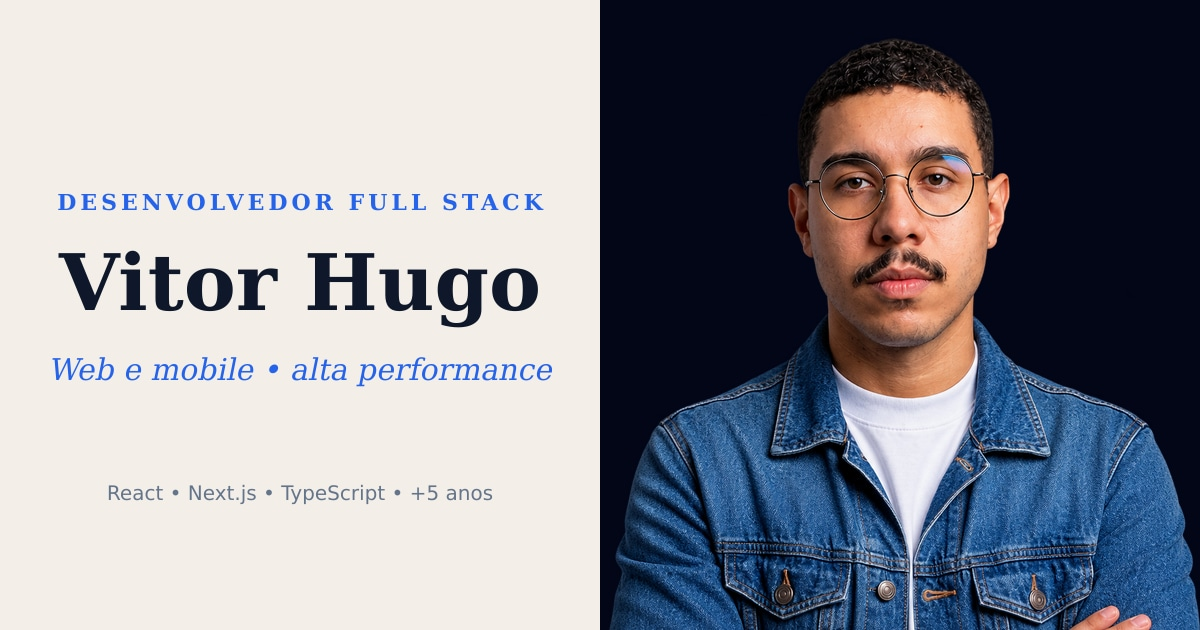
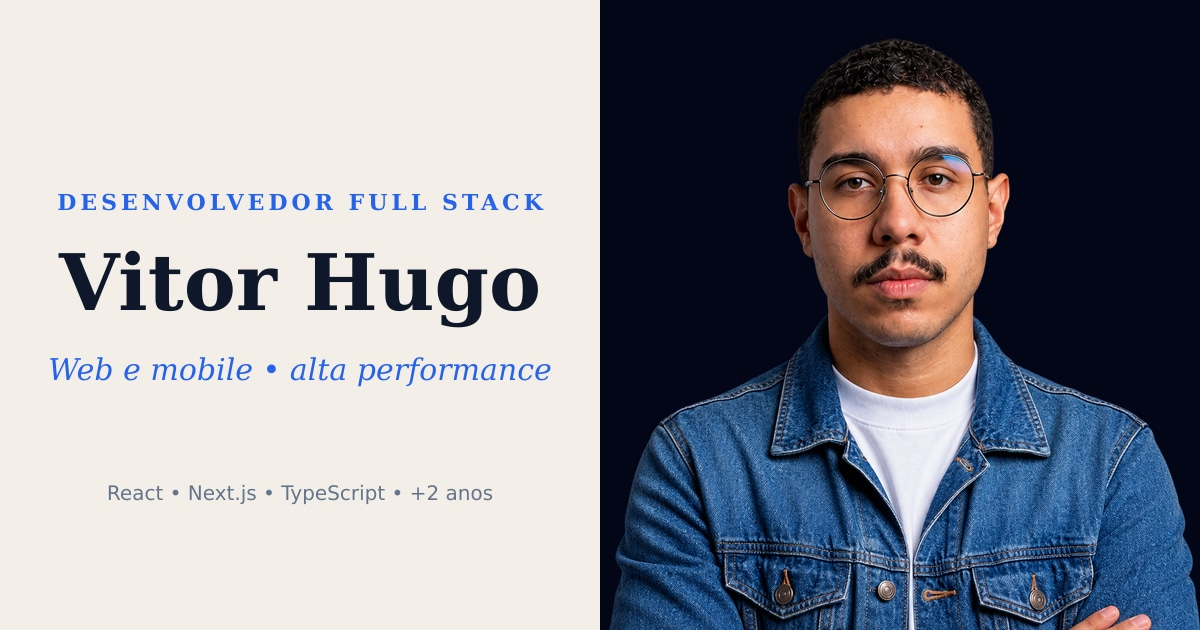
fix: update experience references to reflect 2 years of experience across multiple files

Changed region(s): [[0.0308, 0.573, 0.4625, 0.6032]]

diff --git a/src/lib/about.ts b/src/lib/about.ts
@@ -45,8 +45,8 @@ interface IAboutContent {
 export const aboutContent: IAboutContent = {
   tagline: 'A programação é a minha vida.',
   intro: [
-    'Meu nome é Vítor Hugo, sou desenvolvedor full stack com mais de 5 anos de experiência profissional e atuo de forma autônoma no desenvolvimento de soluções digitais. Trabalho em projetos variados, desde plataformas SaaS e integrações entre sistemas até automações e aplicações web sob medida, acompanhando o processo desde a concepção até a implementação.',
-    'Atualmente, curso o 8º período de Ciência da Computação no IBMR e sou técnico em Programação de Jogos Digitais pelo SENAI. Minha trajetória na tecnologia também inclui experiências na COREN-RJ, com criação de materiais visuais para redes sociais, e na ESSIA, onde trabalhei com edição de código XML para transformar capítulos de livros didáticos em experiências interativas na web.',
+    'Meu nome é Vítor Hugo, sou desenvolvedor full stack com mais de 2 anos de experiência profissional e atuo de forma autônoma no desenvolvimento de soluções digitais. Trabalho em projetos variados, desde plataformas SaaS e integrações entre sistemas até automações e aplicações web sob medida, acompanhando o processo desde a concepção até a implementação.',
+    'Atualmente, curso o 8º período de Ciência da Computação no IBMR e sou técnico em Programação de Jogos Digitais pelo SENAI.',
     'Minha formação e minhas experiências me permitem combinar conhecimentos de desenvolvimento, design e tecnologia para construir soluções funcionais, eficientes e alinhadas às necessidades de cada projeto.',
   ],
   currentRole: {
@@ -108,20 +108,6 @@ export const aboutContent: IAboutContent = {
       description:
         'Desenvolvimento do frontend da plataforma Astrofy, utilizando tecnologias como Next.js, TypeScript, Tailwind CSS, Tanstack Query, React Flow e muito mais. Esse projeto foi um dos maiores que trabalhei, tendo mais de 1000 usuários ativos e muitas funcionalidades complexas implementadas.',
       siteUrl: 'https://app.astrofy.site',
-    },
-    {
-      company: 'ESSIA',
-      role: 'Editor de códigos XML',
-      period: '6 meses',
-      description:
-        'Transformação de capítulos PDF de livros didáticos em livros totalmente interativos em ambiente web.',
-    },
-    {
-      company: 'COREN-RJ',
-      role: 'Assessoria técnica (design/redes sociais)',
-      period: '8 meses',
-      description:
-        'Assessoria técnica no setor de design para redes sociais do Conselho Regional de Enfermagem do Rio de Janeiro.',
     },
   ] satisfies IAboutExperience[],
   education: [

diff --git a/src/lib/seo.ts b/src/lib/seo.ts
@@ -12,7 +12,7 @@ export const siteConfig = {
   name: 'Vitor Hugo',
   title: 'Vitor Hugo | Desenvolvedor Full Stack',
   description:
-    'Portfólio de Vitor Hugo. Desenvolvimento web e mobile com React, Next.js e TypeScript. Mais de 5 anos de experiência.',
+    'Portfólio de Vitor Hugo. Desenvolvimento web e mobile com React, Next.js e TypeScript. Mais de 2 anos de experiência.',
   locale: 'pt_BR',
   language: 'pt-BR',
   author: 'Vitor Hugo César',

diff --git a/src/components/sections/Hero/HeroIntro.tsx b/src/components/sections/Hero/HeroIntro.tsx
@@ -25,7 +25,7 @@ export function HeroIntro() {
       >
         Desenvolvedor full stack com{' '}
         <span className="font-semibold text-primary-light">
-          mais de 5 anos de experiência
+          mais de 2 anos de experiência
         </span>
         , especializado em construir aplicações web e mobile modernas,
         escaláveis e de alta performance.

diff --git a/src/components/sections/Hero/ExperienceBadge.tsx b/src/components/sections/Hero/ExperienceBadge.tsx
@@ -53,7 +53,7 @@ export function ExperienceBadge() {
 
         <div className="leading-none pt-6">
           <p className="text-[2rem] font-bold tracking-tight text-[#1688f5]">
-            +5 anos
+            +2 anos
           </p>
           <p className="mt-1 text-[1.2rem] text-[#9fd6ff]/80">de experiência</p>
         </div>

diff --git a/src/lib/sales.ts b/src/lib/sales.ts
@@ -6,7 +6,7 @@ export interface IStat {
 export const salesContent = {
   stats: [
     {
-      value: '+5 anos',
+      value: '+2 anos',
       label: 'entregando software de verdade, não protótipo.',
     },
     {
